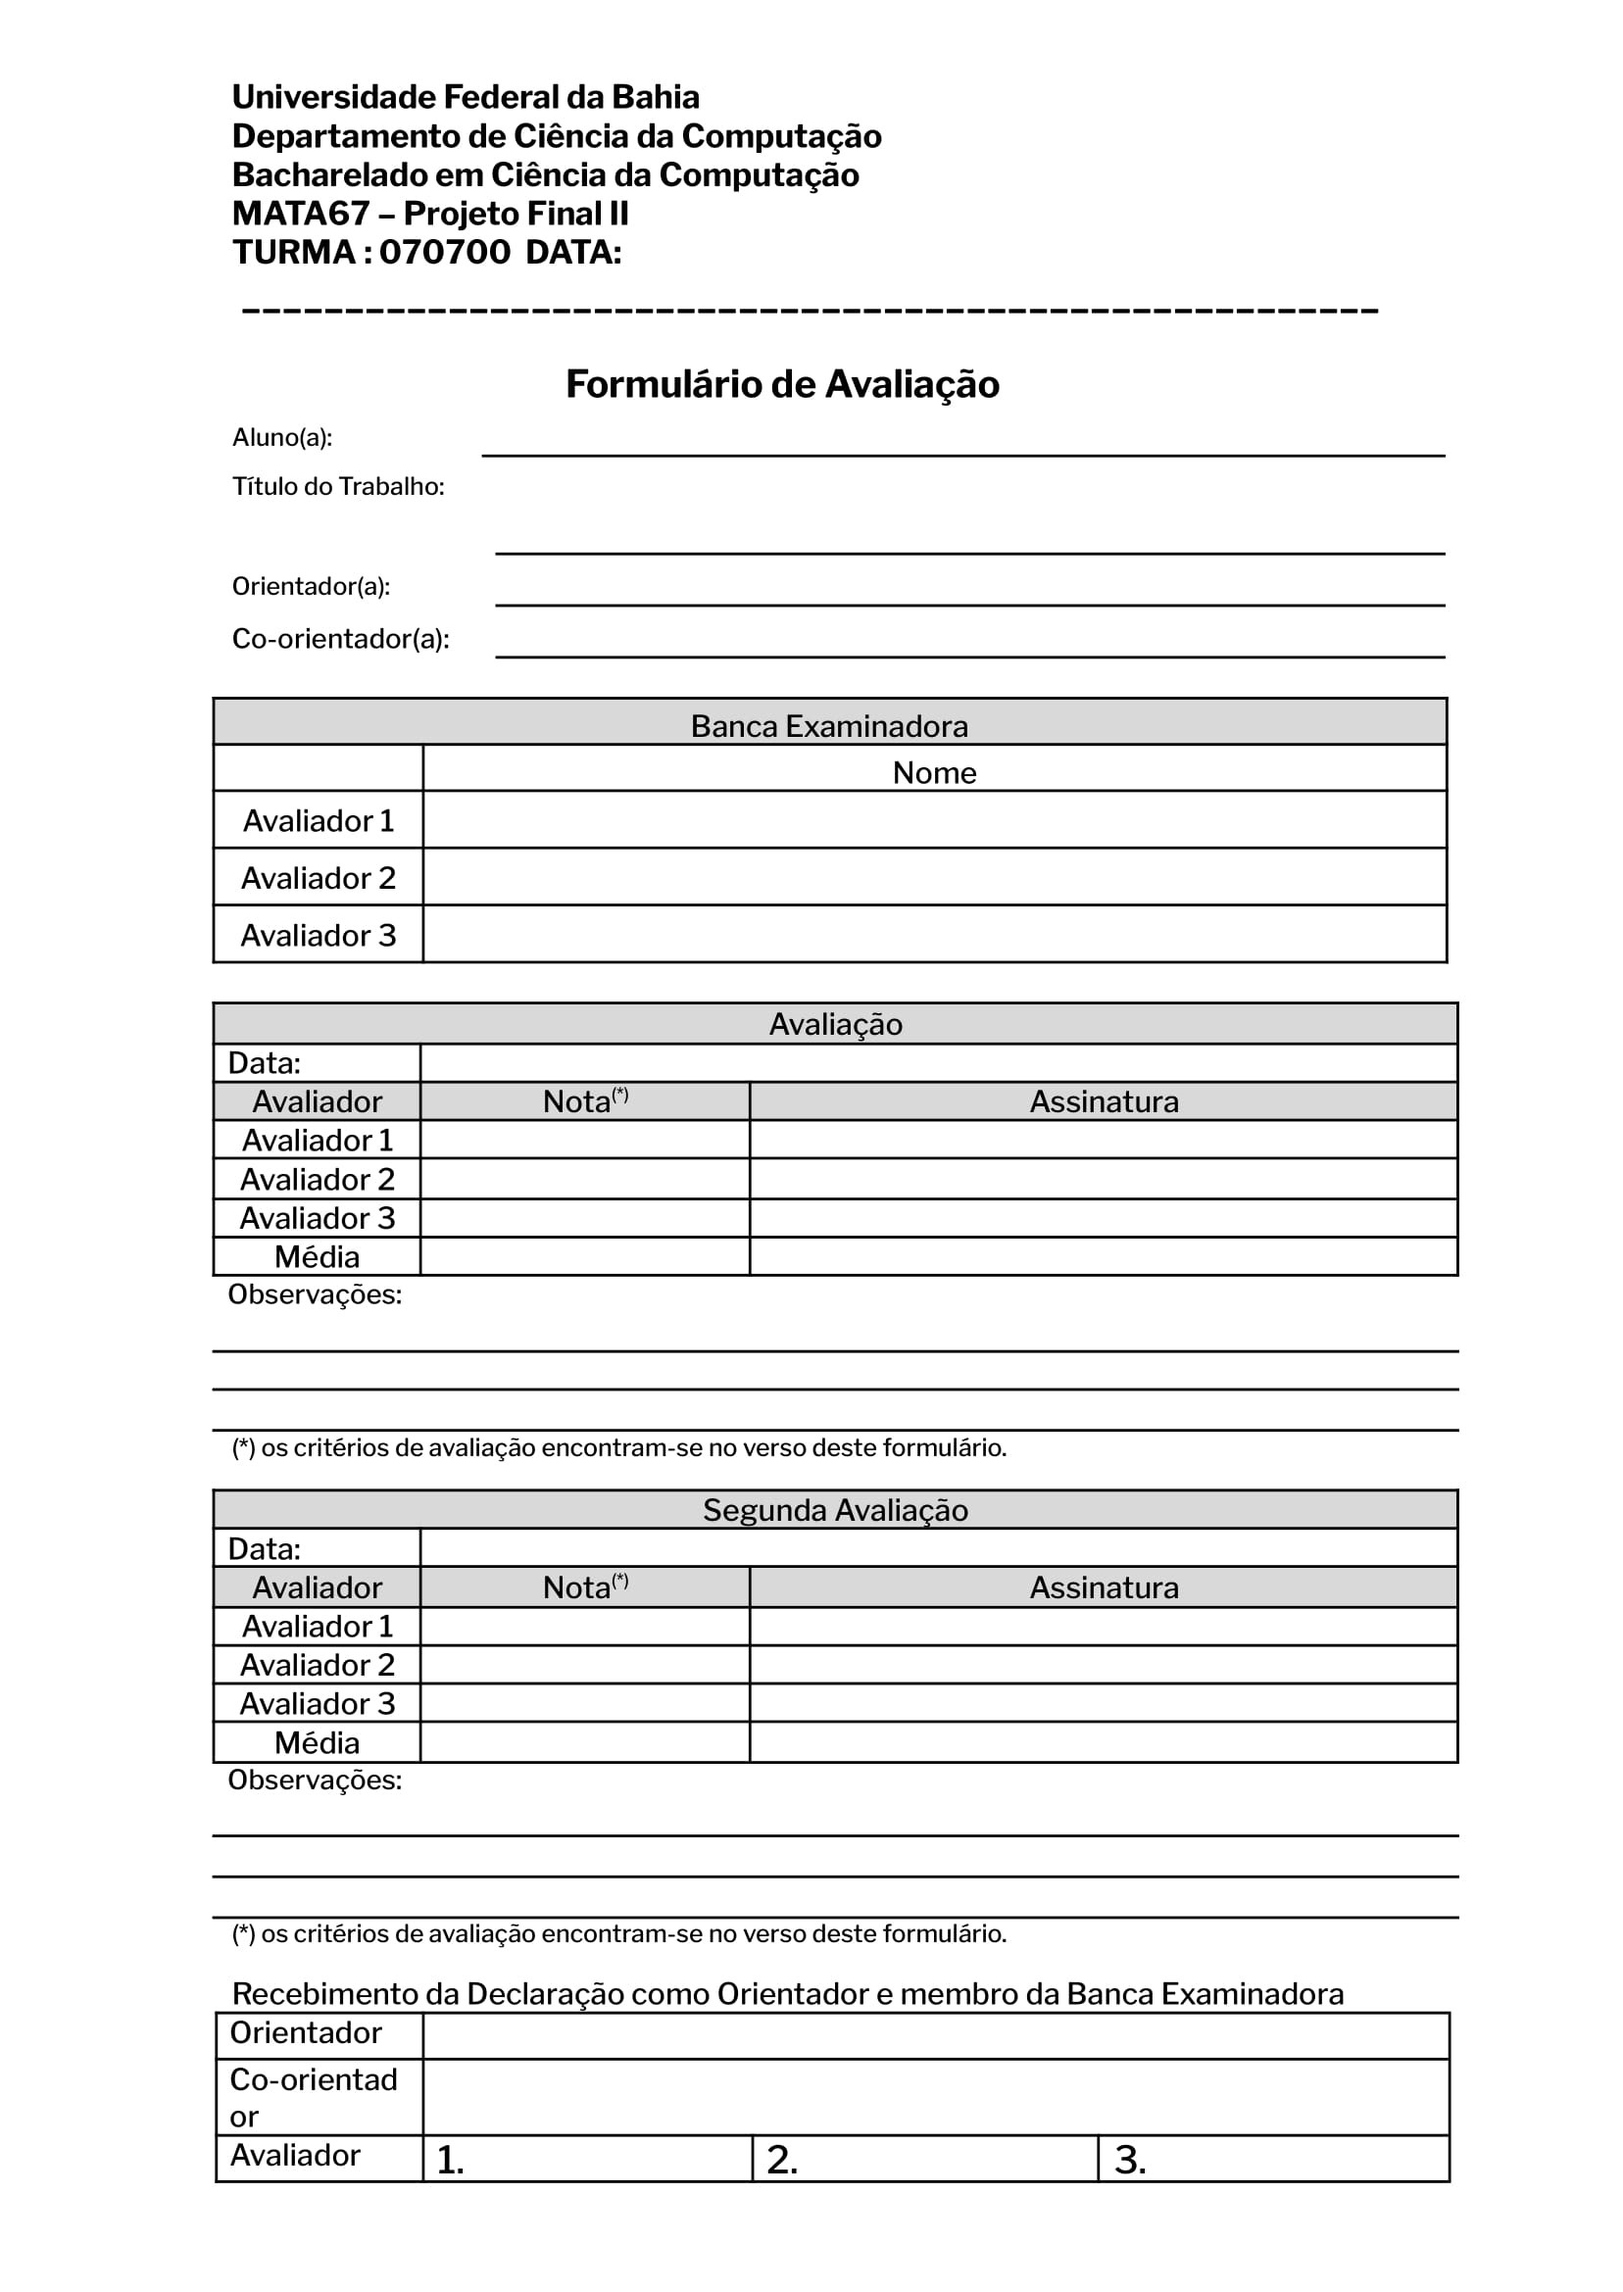
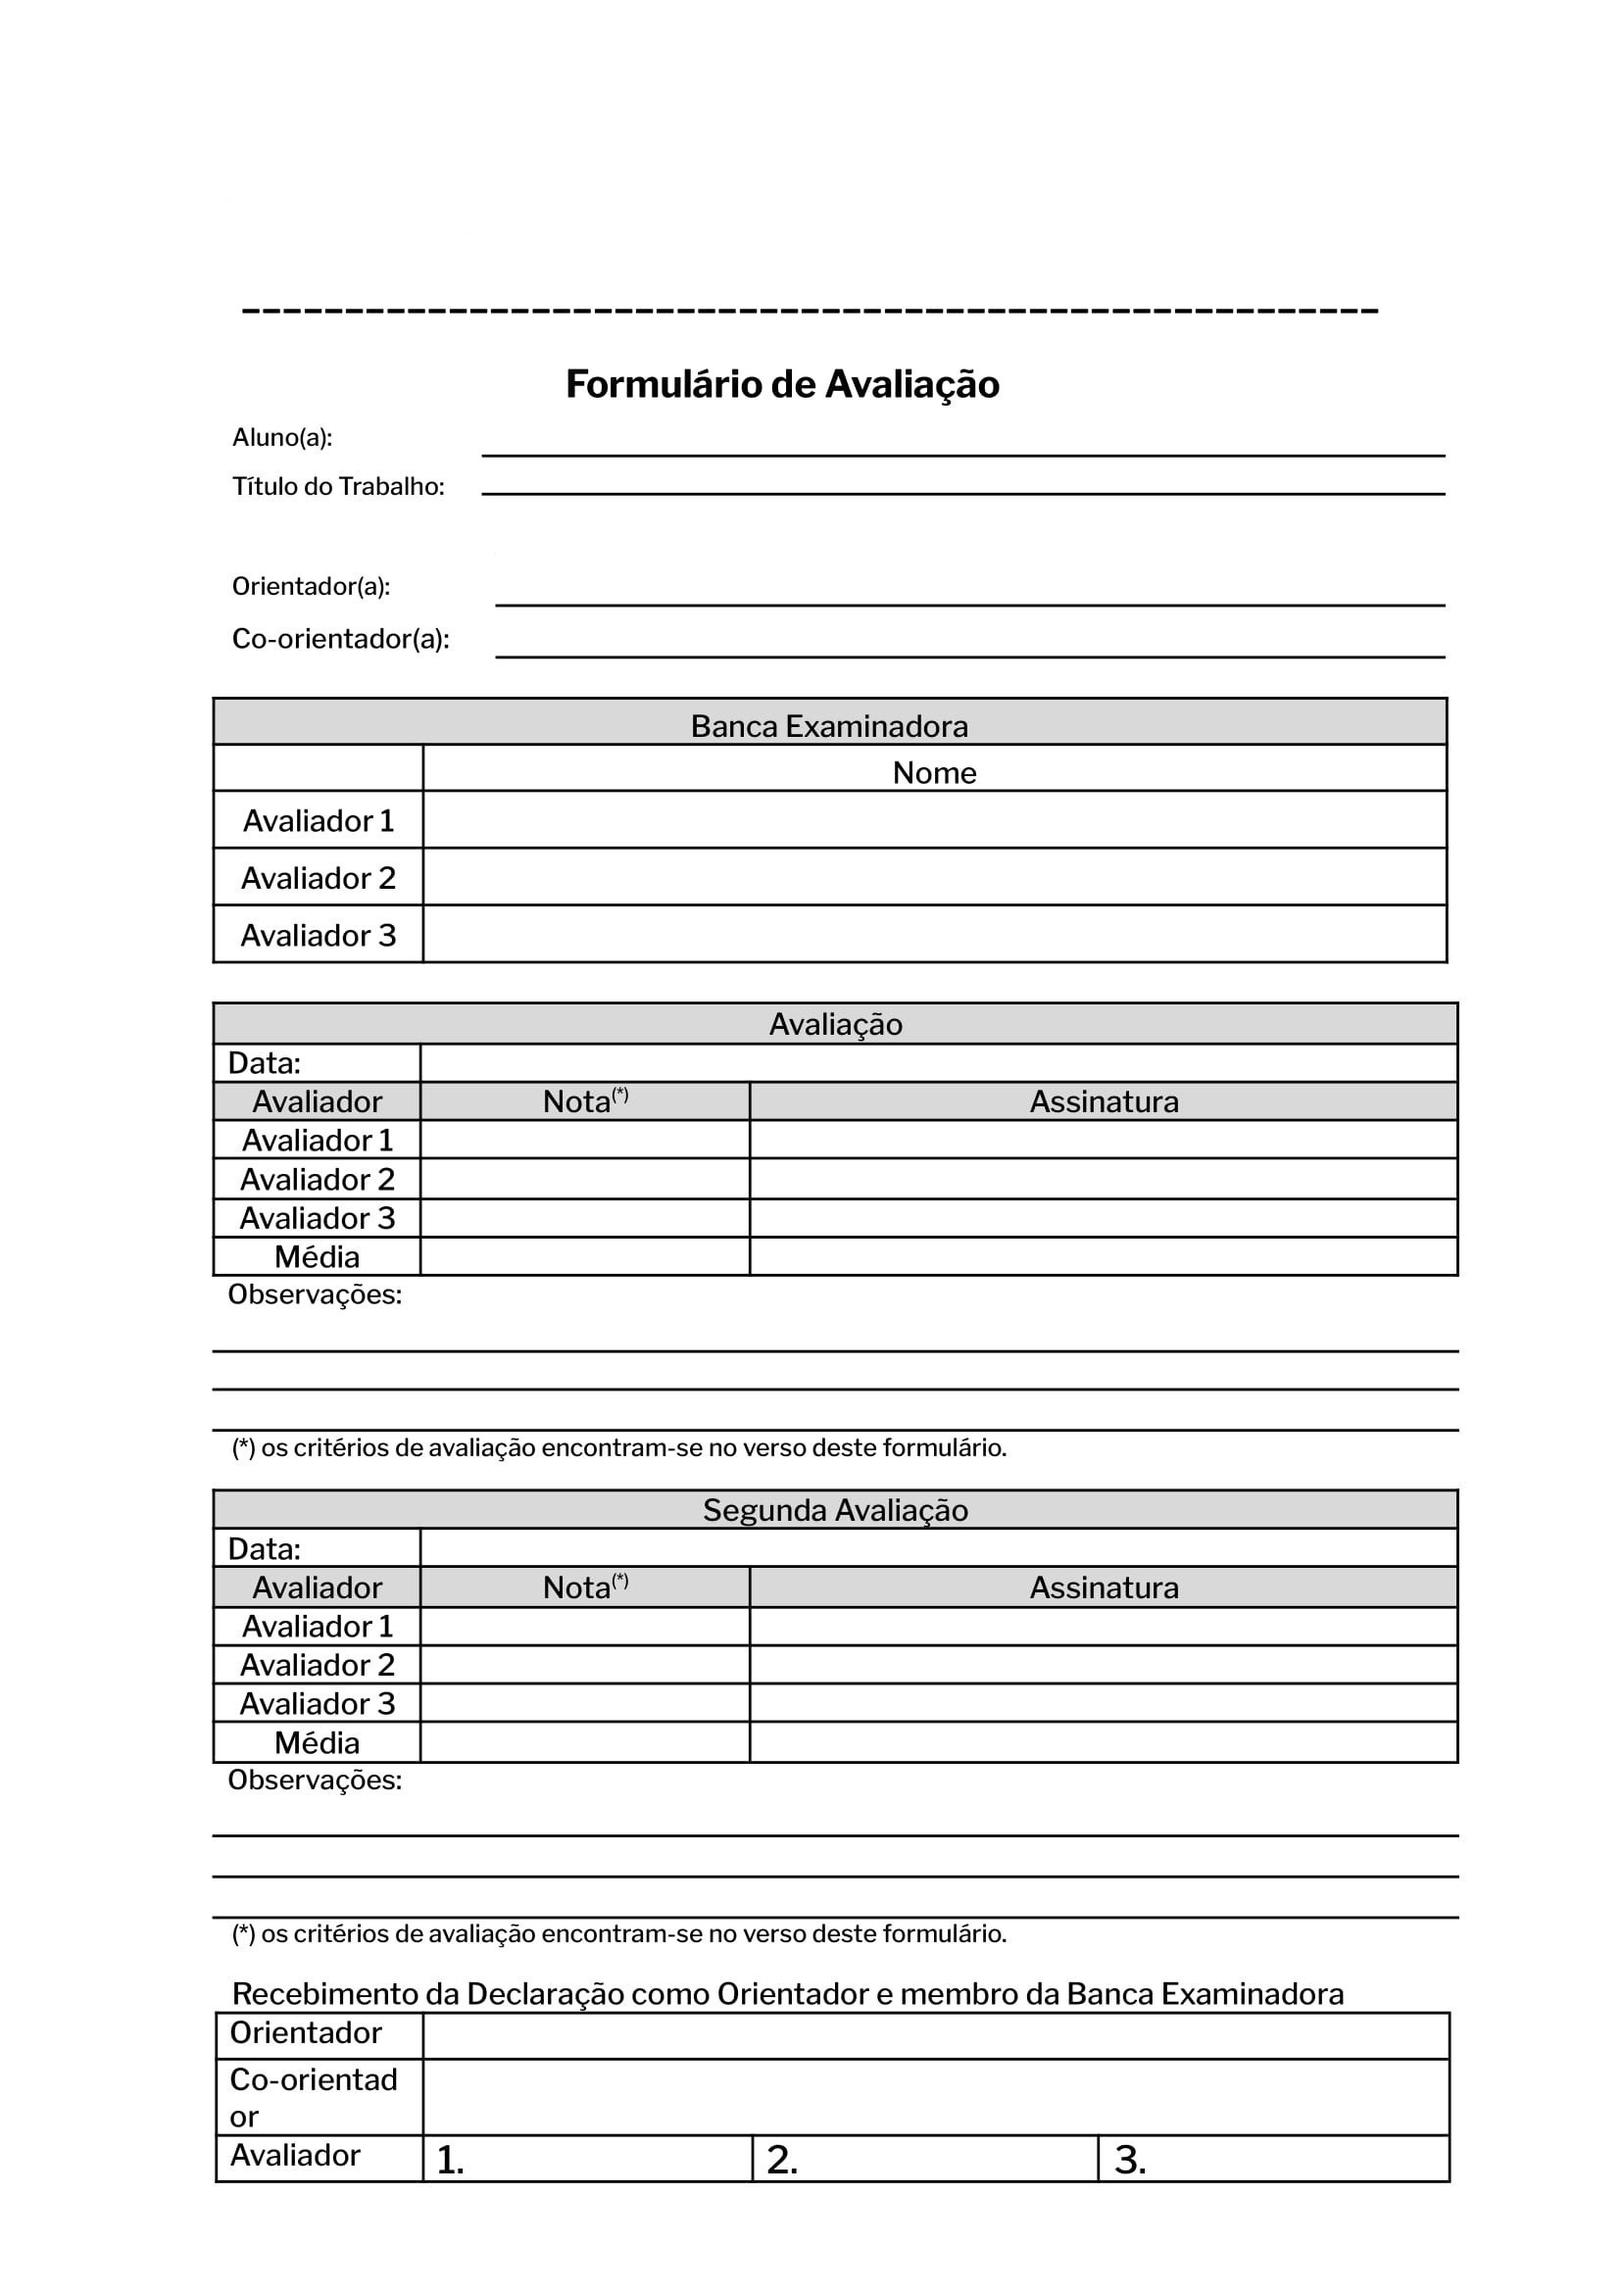
Adds changes on the PDF

Changed region(s): [[0.1232, 0.0312, 0.5236, 0.1248]]

diff --git a/views/documento/_tcc.php b/views/documento/_tcc.php
@@ -25,7 +25,7 @@ $media += $nota_orientador;
     }
 
     .mt-1-5 {
-        margin-top: 1.5rem;
+        margin-top: 1.3rem;
     }
 
     .text-danger {
@@ -47,14 +47,68 @@ $media += $nota_orientador;
         font-family: 'Libre Franklin';
         width: 30em;
         font-size: 16px;
-        top: 7.7rem;
-        left: 26rem;
+        top: 8rem;
+        left: 23rem;
         font-weight: bold;
     }
 
     .cabecalho p {
         display: inline-block;
         max-width: 50%;
+    }
+
+    .curso {
+        font-family: 'Libre Franklin';
+        width: 30em;
+        font-size: 16px;
+        top: 4.75rem;
+        left: 9.35rem;
+        font-weight: bold;
+    }
+
+    .universidade {
+        font-family: 'Libre Franklin';
+        width: 30em;
+        font-size: 16px;
+        top: 1.5rem;
+        left: 9.2rem;
+        font-weight: bold;
+    }
+
+    .instituto {
+        font-family: 'Libre Franklin';
+        width: 30em;
+        font-size: 16px;
+        top: 3.1rem;
+        left: 9.35rem;
+        font-weight: bold;
+    }
+
+    .disciplina {
+        font-family: 'Libre Franklin';
+        width: 30em;
+        font-size: 16px;
+        top: 6.3rem;
+        left: 9.35rem;
+        font-weight: bold;
+    }
+
+    .turma {
+        font-family: 'Libre Franklin';
+        width: 30em;
+        font-size: 16px;
+        top: 6.3rem;
+        left: 28.35rem;
+        font-weight: bold;
+    }
+
+    .semestre {
+        font-family: 'Libre Franklin';
+        width: 30em;
+        font-size: 16px;
+        top: 8rem;
+        left: 9.35rem;
+        font-weight: bold;
     }
 
     .informacao {
@@ -73,6 +127,11 @@ $media += $nota_orientador;
     }
 
     .orientador {
+        margin-top: 2.1rem;
+        margin-left: 0.51rem;
+    }
+
+    .coorientador {
         margin-top: 2.1rem;
         margin-left: 0.51rem;
     }
@@ -96,12 +155,36 @@ $media += $nota_orientador;
     <img src="./resources/img/page_1.jpg">
 </section>
 
-<div class="cabecalho section">
-    <p class="datetime"><?= $data ?>, <span class="text-danger"><?= $horario ?></span></p>
+<div class="section universidade">
+    <p>Universidade Federal da Bahia</p>
+</div>
+
+<div class="section instituto">
+    <p>Instituto de Computação</p>
+</div>
+
+<div class="section disciplina">
+    <p><?= $disciplina ?> - Projeto Final II</p>
+</div>
+
+<div class="section curso">
+    <p>Bacharelado em <?= $curso == "BCC" ? "Ciência da Computação" : "Sistemas da Informação" ?></p>
+</div>
+
+<div class="section semestre">
+    <p>Semestre: <?= $semestre ?></p>
+</div>
+
+<div class="section turma">
+    <p>Turma: <?= $turma ?></p>
+</div>
+
+<div class="section cabecalho datetime">
+    <p class="datetime">DATA: <?= $data ?>, <span><?= $horario ?></span></p>
 </div>
 
 <div class="informacao section">
-    <p class="aluno"><?= $discente ?></p>
+    <p class="aluno"><?= $aluno ?></p>
     <p class="titulo mt-1-5"><?= $titulo_trabalho ?></p>
     <p class="orientador"><?= $orientador ?></p>
 </div>
